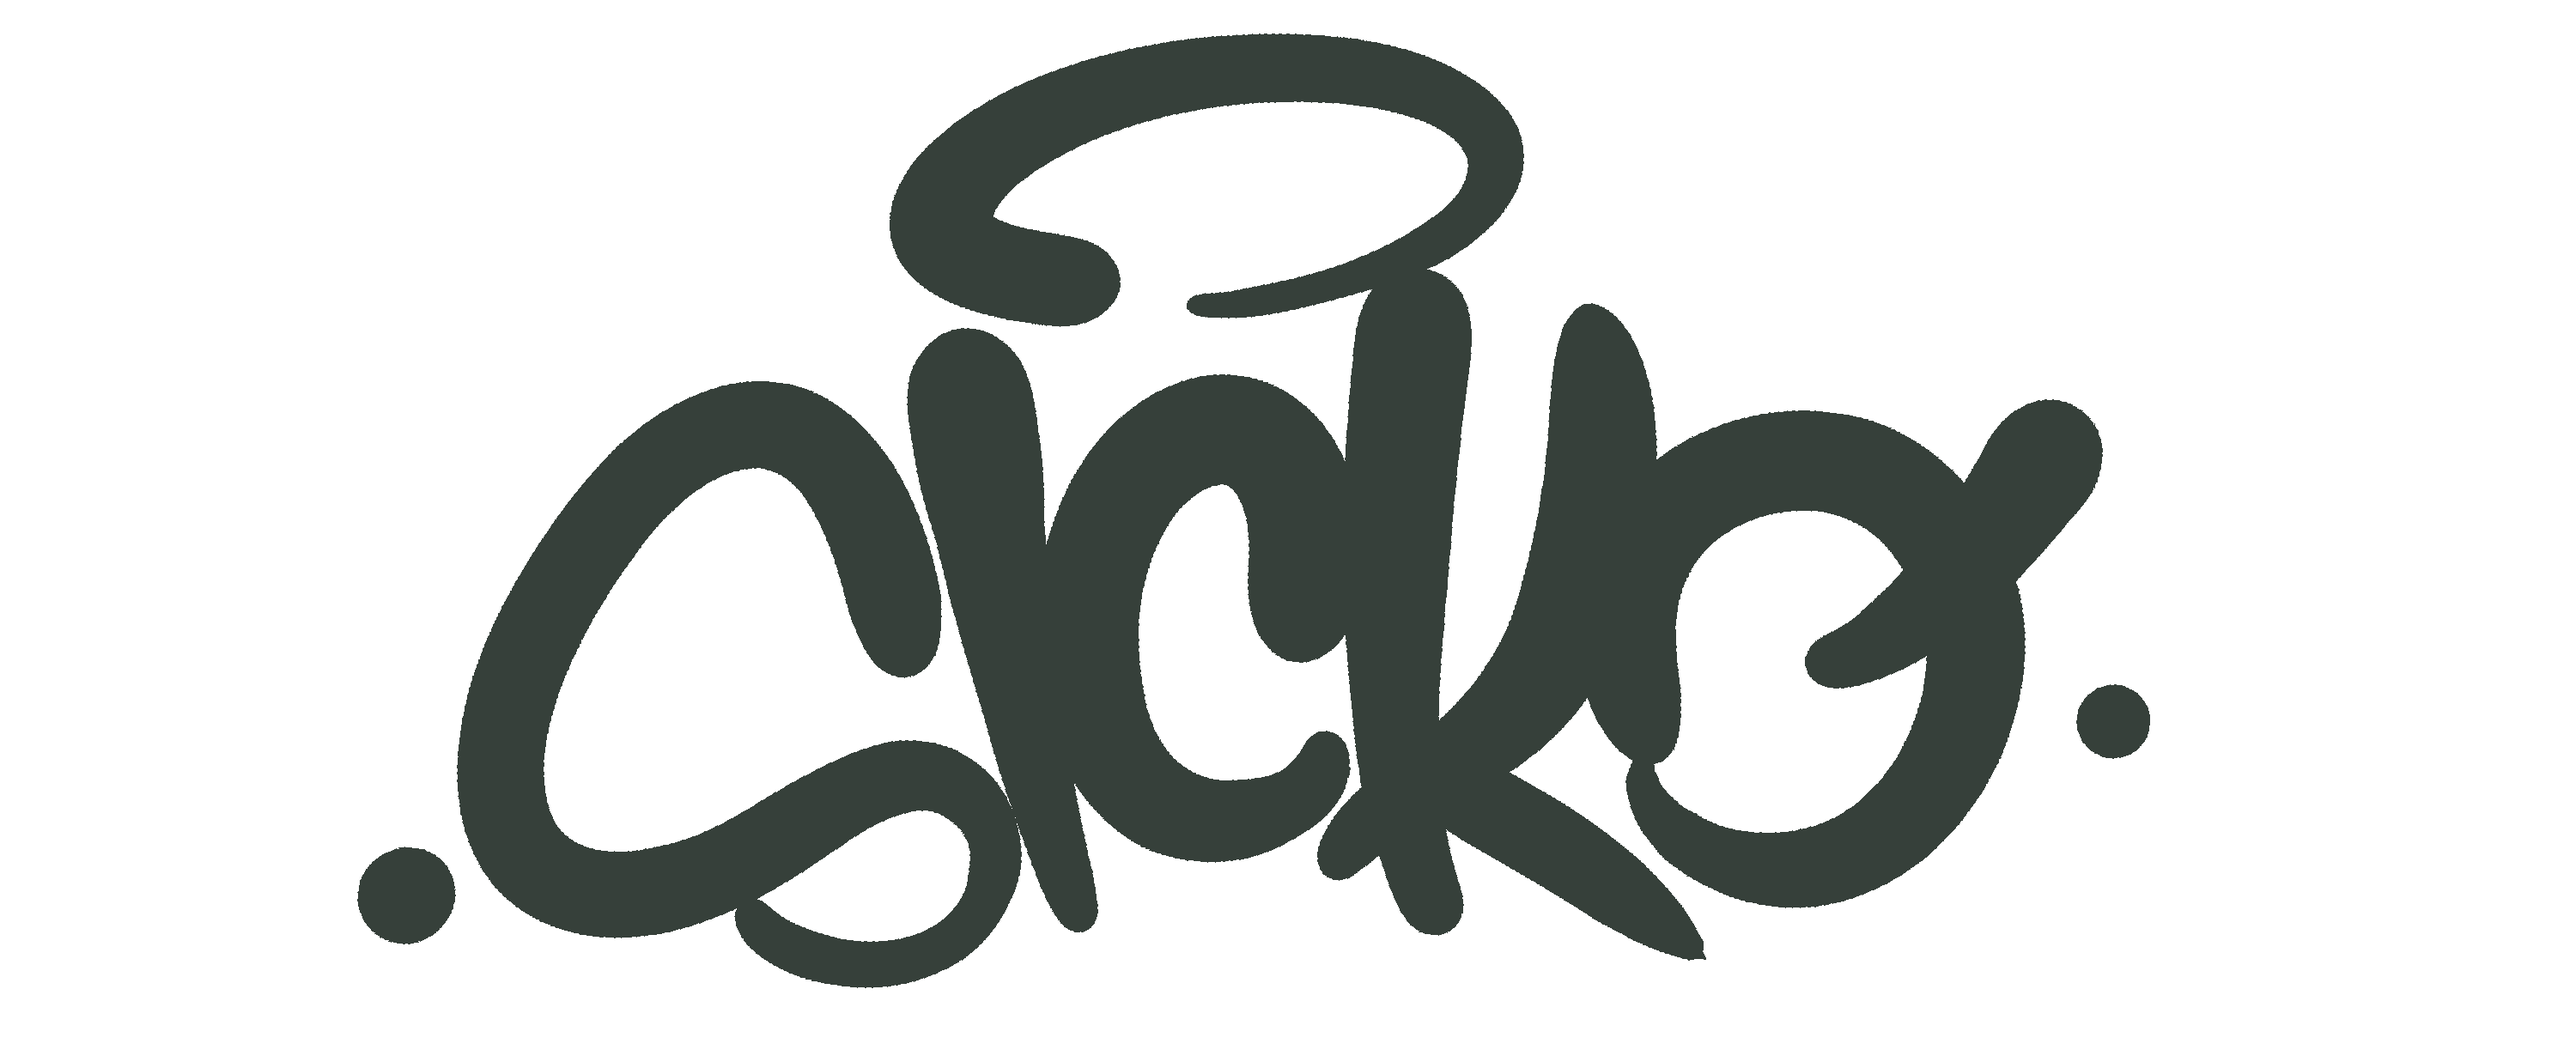
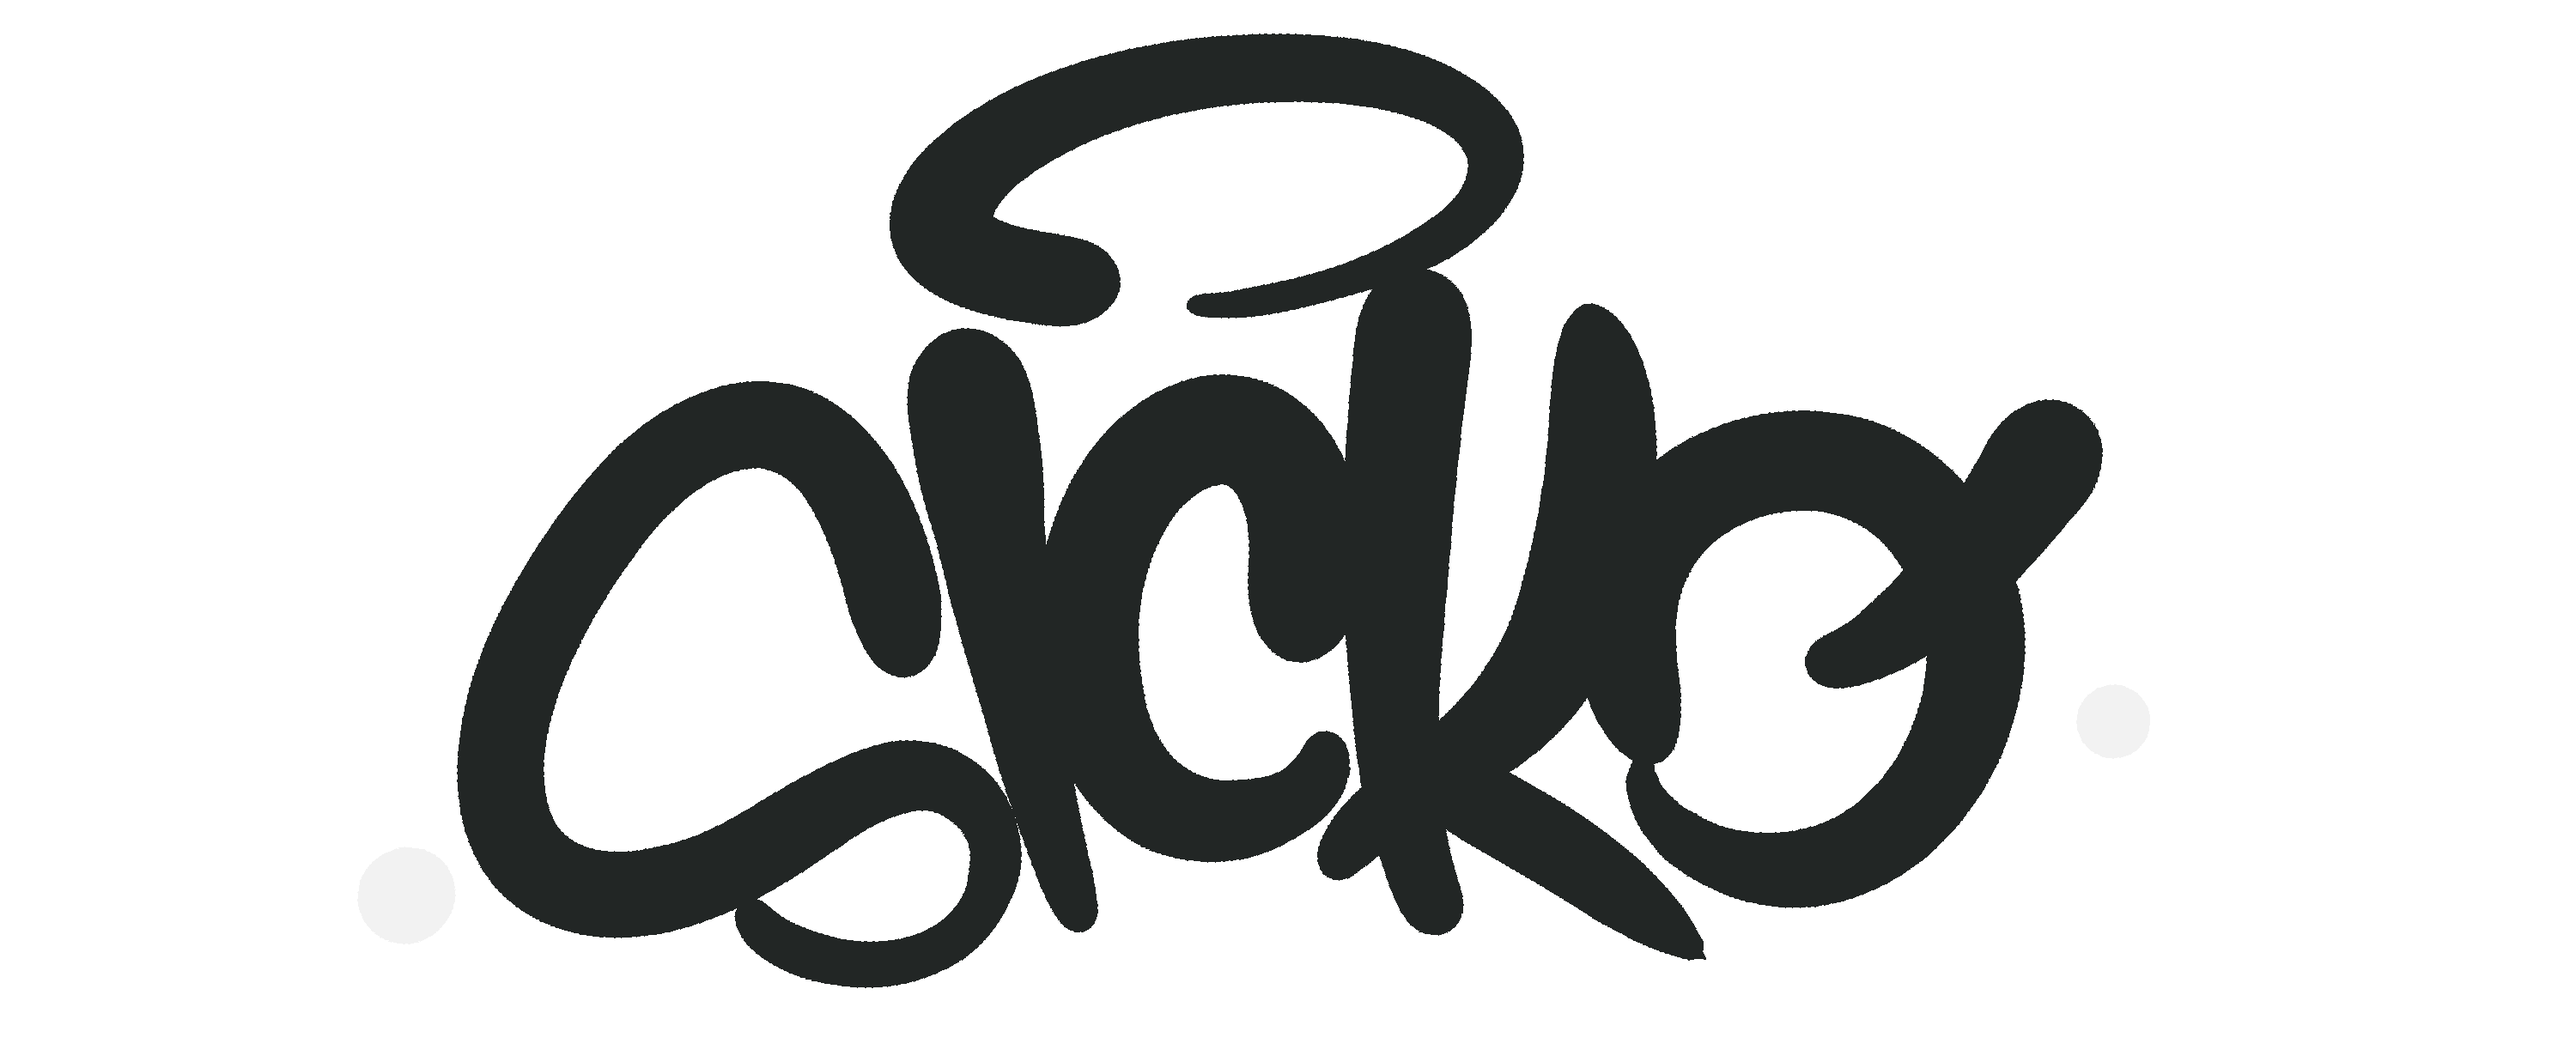
.
.

Changed region(s): [[0.124, 0.0312, 0.837, 0.9688]]

diff --git a/sicko/biografia.html b/sicko/biografia.html
@@ -76,8 +76,8 @@
                             <img src="imagens/Screenshot_5.png" alt="" class="radius col col-11">
                         </div>
                         <div class="col">
-                            <button class="btn cor7 col col-11 rounded-0 shadow hover2"><a href="" class="
-                                        poppins ">Confira o portifolio do Sicko</a></button>
+                            <button class="btn cor7 col col-11 rounded-0 shadow hover4 "><a href="" class="
+                                        poppins fonteCor9 ">Confira o portifolio do Sicko</a></button>
                         </div>
                     </div>
                 </div>

diff --git a/sicko/style.css b/sicko/style.css
@@ -61,7 +61,7 @@
     background-color: #36403A;
 }
 .fonteCor9{
-    color:#36403A;
+    color:#222625;
 }
 
 .borda {
@@ -129,7 +129,7 @@ a {
     box-shadow: 5px 5px 5px #5D5D5D;
 }
 .hover4:hover{
-    background-color: #36403A;
+    background-color:#222625;
     color: #732937;
 
     border-radius: 5px;
